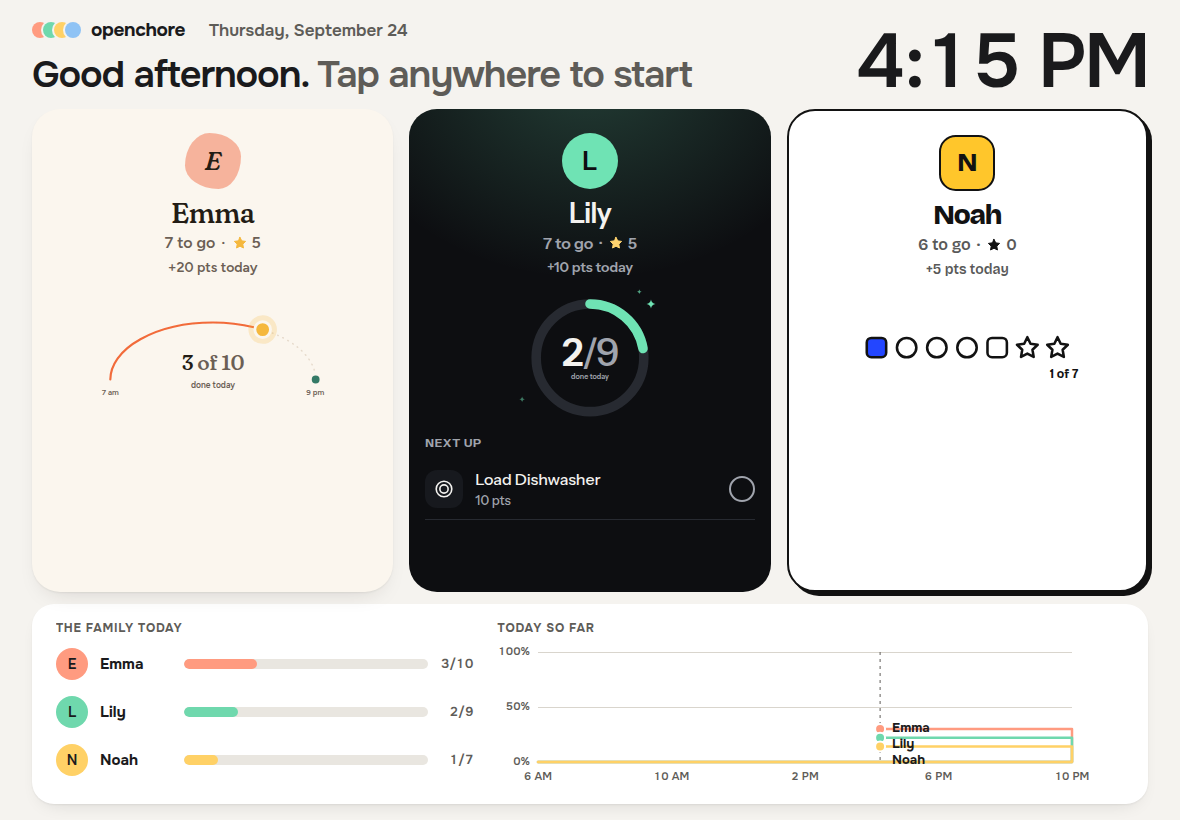
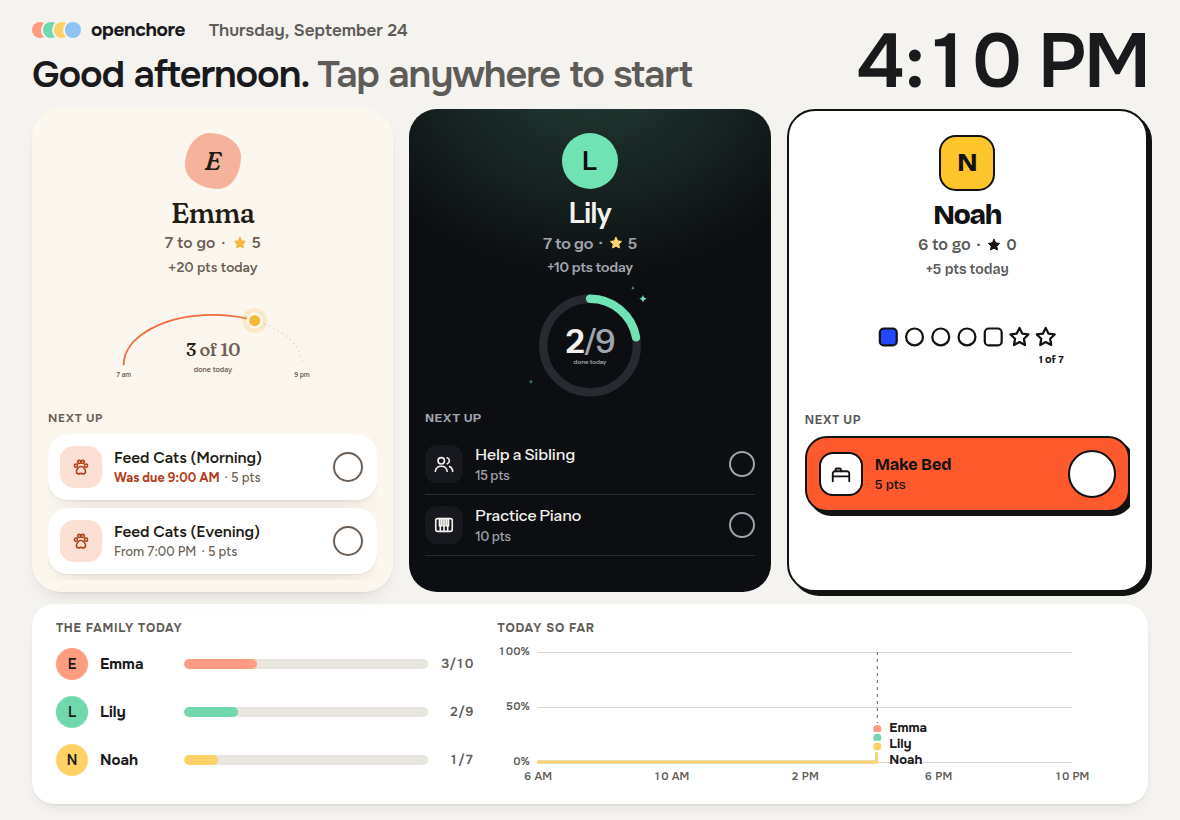
Wall display: every door lists its next whole rows
Two bugs left doors empty. The row fitter watched the list it was hiding:
once nothing fitted it hid the section, the list collapsed to zero and it
never recovered, so Emma's and Noah's doors stayed empty. It now watches
the door (sized by the grid) and re-fits once web fonts load. And the list
dropped every expired chore, so late chores that can still be done (any
expiry penalty but block) vanished.

Row selection moves to AmbientDashboard.data.ts (unit-tested): what can be
done now, then late chores ("Was due ..."), then chores that open later
("From ..."), then locked bonus. Doors give the hero less room when short
so more rows fit. Screenshots refreshed with the API in a matching time
zone so availability agrees with the page's clock.

Claude-Session: https://claude.ai/code/session_01F6vRY2ikBbEVkTGR6zBoJF

diff --git a/web/src/pages/AmbientDashboard.tsx b/web/src/pages/AmbientDashboard.tsx
@@ -8,10 +8,11 @@ import { localDateStr } from '../utils';
 import {
   Avatar, ChoreRow, DayProgress, FamilyMember, HouseScope, Icon, SkinScope,
   catFromCategory, resolveSkin, salutationFor, useMinuteClock,
-  type Cat, type ChoreState, type DayProgressItem, type Skin,
+  type DayProgressItem, type Skin,
 } from '../design';
 import { LineChart, type LineSeries, type Tick } from '../components/charts/LineChart';
 import { personColorVar } from '../components/charts/personColor';
+import { CAT_ORDER, nextRows, type NextRow } from './AmbientDashboard.data';
 import styles from './AmbientDashboard.module.css';
 
 interface PersonDay {
@@ -28,15 +29,14 @@ interface PersonDay {
 
 const REFRESH_MS = 45_000;
 const MAX_CHART_LINES = 6;
-/** How many of a person's next chores their door lists (more are clipped if they don't fit). */
-const NEXT_ROWS = 3;
+/** The most rows a door lists; fewer show when fewer whole rows fit. */
+const NEXT_ROWS = 4;
 /** DayProgress' day, matching its default "7 am" / "9 pm" labels. */
 const DAY_FROM_H = 7;
 const DAY_TO_H = 21;
 /** The family chart's day. */
 const CHART_FROM_H = 6;
 const CHART_TO_H = 22;
-const CAT_ORDER: Record<Cat, number> = { essential: 0, daily: 1, bonus: 2 };
 
 /**
  * Door hero sizing is layout, not theme (the gallery does the same): each
@@ -52,40 +52,40 @@ const HERO_FIT: Record<Skin, { w: number; s: number }> = {
 const hoursOf = (d: Date) => d.getHours() + d.getMinutes() / 60;
 const dayFraction = (d: Date) => (hoursOf(d) - DAY_FROM_H) / (DAY_TO_H - DAY_FROM_H);
 
-/** "HH:MM" today, as a Date. */
-function atToday(hhmm: string | undefined, now: Date): Date | null {
-  if (!hhmm) return null;
-  const [h, m] = hhmm.split(':').map(Number);
-  if (!Number.isFinite(h) || !Number.isFinite(m)) return null;
-  const d = new Date(now);
-  d.setHours(h, m, 0, 0);
-  return d;
-}
-
 /**
- * Hide the children of a box that don't fully fit inside it, so a door shows
- * as many whole rows as its height allows and never a clipped one.
+ * Hide the rows of a door's "Next up" list that don't fully fit, so a door
+ * shows as many whole rows as its height allows and never a clipped one.
+ * When not even one fits, the section (and its label) hides.
+ *
+ * It watches the door, whose size is set by the grid, not the list: hiding
+ * rows or the section never feeds back into the measurement. It re-fits
+ * when the door resizes and once the web fonts have loaded.
  */
 function useFitRows<T extends HTMLElement>(deps: unknown[]) {
   const ref = useRef<T>(null);
   useLayoutEffect(() => {
     const box = ref.current;
-    if (!box) return;
+    const section = box?.parentElement;
+    const door = box?.closest<HTMLElement>(`.${styles.door}`);
+    if (!box || !section || !door) return;
+    let alive = true;
     const fit = () => {
+      if (!alive) return;
       const kids = Array.from(box.children) as HTMLElement[];
+      section.hidden = false;
       kids.forEach((k) => { k.hidden = false; });
-      if (box.parentElement) box.parentElement.hidden = false;
       const bottom = box.getBoundingClientRect().bottom;
       kids.forEach((k) => { k.hidden = k.getBoundingClientRect().bottom > bottom + 1; });
-      // Nothing fits: hide the section (and its label) rather than a clipped row.
-      const section = box.parentElement;
-      if (section) section.hidden = kids.every((k) => k.hidden);
+      section.hidden = kids.length > 0 && kids.every((k) => k.hidden);
     };
     fit();
-    if (typeof ResizeObserver === 'undefined') return;
-    const ro = new ResizeObserver(fit);
-    ro.observe(box);
-    return () => ro.disconnect();
+    document.fonts?.ready.then(fit).catch(() => {});
+    let ro: ResizeObserver | undefined;
+    if (typeof ResizeObserver !== 'undefined') {
+      ro = new ResizeObserver(fit);
+      ro.observe(door);
+    }
+    return () => { alive = false; ro?.disconnect(); };
     // eslint-disable-next-line react-hooks/exhaustive-deps
   }, deps);
   return ref;
@@ -242,29 +242,13 @@ function Door({ p, now, fmtTime }: { p: PersonDay; now: Date; fmtTime: (d: Date)
       });
   }, [p.chores, p.doneAt]);
 
-  // Bonus only opens once every Must do and Every day chore is done.
-  const bonusOpen = p.chores.every((c) => c.category === 'bonus' || c.completed || !c.available);
-  const next = p.chores
-    .filter((c) => !c.completed && !c.expired)
-    .sort((a, b) =>
-      Number(b.available) - Number(a.available)
-      || CAT_ORDER[catFromCategory(a.category)] - CAT_ORDER[catFromCategory(b.category)]
-      || (a.due_by ?? '99').localeCompare(b.due_by ?? '99'))
-    .slice(0, NEXT_ROWS);
+  const next = nextRows(p.chores, now).slice(0, NEXT_ROWS);
 
-  const rowFor = (c: ScheduledChore) => {
-    const cat = catFromCategory(c.category);
-    const state: ChoreState = cat === 'bonus' && !bonusOpen ? 'locked' : 'todo';
-    let meta: string | undefined;
-    let urgent = false;
-    const opens = atToday(c.available_at, now);
-    const due = atToday(c.due_by, now);
-    if (!c.available && opens && opens > now) {
-      meta = t('wall.opensAt', { time: fmtTime(opens) });
-    } else if (due) {
-      meta = t('wall.dueBy', { time: fmtTime(due) });
-      urgent = due.getTime() - now.getTime() < 60 * 60 * 1000;
-    }
+  const rowFor = ({ chore: c, cat, state, meta: m, urgent }: NextRow) => {
+    const meta = !m ? undefined
+      : m.kind === 'opens' ? t('wall.opensAt', { time: fmtTime(m.at) })
+      : m.kind === 'late' ? t('wall.late', { time: fmtTime(m.at) })
+      : t('wall.dueBy', { time: fmtTime(m.at) });
     return (
       <ChoreRow
         key={`${c.schedule_id}-${c.chore_id}`}
@@ -282,7 +266,7 @@ function Door({ p, now, fmtTime }: { p: PersonDay; now: Date; fmtTime: (d: Date)
   };
 
   const fit = HERO_FIT[skin];
-  const rowsRef = useFitRows<HTMLDivElement>([next.map((c) => c.schedule_id).join(), bonusOpen]);
+  const rowsRef = useFitRows<HTMLDivElement>([next.map((r) => `${r.chore.schedule_id}:${r.state}:${r.meta?.kind}`).join()]);
 
   return (
     <SkinScope skin={skin} color={p.user.color} door className={styles.door} role="group" aria-labelledby={nameId}>

diff --git a/web/src/pages/AmbientDashboard.data.test.ts b/web/src/pages/AmbientDashboard.data.test.ts
@@ -1,0 +1,87 @@
+import { describe, expect, it } from 'vitest';
+import type { ScheduledChore } from '../types';
+import { atToday, bonusOpen, nextRows } from './AmbientDashboard.data';
+
+let id = 0;
+function chore(title: string, category: ScheduledChore['category'], extra: Partial<ScheduledChore> = {}): ScheduledChore {
+  id += 1;
+  return {
+    schedule_id: id, chore_id: id, title, category, completed: false, available: true, expired: false,
+    expiry_penalty: 'no_points', points_value: 5, ...extra,
+  } as ScheduledChore;
+}
+
+const at = (h: number, m = 0) => new Date(2026, 8, 24, h, m);
+const titles = (rows: ReturnType<typeof nextRows>) => rows.map((r) => r.chore.title);
+
+describe('atToday', () => {
+  it('reads HH:MM on the same day and rejects junk', () => {
+    expect(atToday('19:30', at(16))?.getHours()).toBe(19);
+    expect(atToday(undefined, at(16))).toBeNull();
+    expect(atToday('soon', at(16))).toBeNull();
+  });
+});
+
+describe('bonusOpen', () => {
+  it('opens once every available Must do and Every day chore is done', () => {
+    expect(bonusOpen([chore('A', 'required', { completed: true }), chore('B', 'bonus')])).toBe(true);
+    expect(bonusOpen([chore('A', 'core'), chore('B', 'bonus')])).toBe(false);
+    expect(bonusOpen([chore('Later', 'required', { available: false }), chore('B', 'bonus')])).toBe(true);
+  });
+});
+
+describe('nextRows', () => {
+  it('leaves out done chores and expired chores that are blocked', () => {
+    const rows = nextRows([
+      chore('Done', 'required', { completed: true }),
+      chore('Gone', 'required', { expired: true, expiry_penalty: 'block', due_by: '09:00' }),
+      chore('Open', 'core'),
+    ], at(16));
+    expect(titles(rows)).toEqual(['Open']);
+  });
+
+  it('puts what can be done now first, by category then deadline', () => {
+    const rows = nextRows([
+      chore('Every day', 'core'),
+      chore('Must do late in the day', 'required', { due_by: '20:00' }),
+      chore('Must do soon', 'required', { due_by: '16:30' }),
+    ], at(16));
+    expect(titles(rows)).toEqual(['Must do soon', 'Must do late in the day', 'Every day']);
+    expect(rows[0].meta).toMatchObject({ kind: 'due' });
+    expect(rows[0].urgent).toBe(true);
+    expect(rows[1].urgent).toBe(false);
+  });
+
+  it('lists upcoming chores with their opening time when nothing is available now', () => {
+    const rows = nextRows([
+      chore('Feed cats (evening)', 'required', { available: false, available_at: '19:00', due_by: '21:00' }),
+      chore('Brush teeth (evening)', 'required', { available: false, available_at: '20:00', due_by: '21:30' }),
+    ], at(16, 15));
+    expect(titles(rows)).toEqual(['Feed cats (evening)', 'Brush teeth (evening)']);
+    expect(rows.every((r) => r.meta?.kind === 'opens' && r.state === 'todo')).toBe(true);
+    expect((rows[0].meta as { at: Date }).at.getHours()).toBe(19);
+  });
+
+  it('keeps late chores that can still be done, after the ones on time', () => {
+    const rows = nextRows([
+      chore('Late', 'required', { expired: true, due_by: '09:00' }),
+      chore('On time', 'core'),
+      chore('Later', 'core', { available: false, available_at: '19:00' }),
+    ], at(16));
+    expect(titles(rows)).toEqual(['On time', 'Late', 'Later']);
+    expect(rows[1]).toMatchObject({ meta: { kind: 'late' }, urgent: true });
+  });
+
+  it('locks bonus chores until everything else is done, and lists them last', () => {
+    const rows = nextRows([
+      chore('Bonus', 'bonus'),
+      chore('Later', 'required', { available: false, available_at: '19:00' }),
+      chore('Now', 'required'),
+    ], at(16));
+    expect(titles(rows)).toEqual(['Now', 'Later', 'Bonus']);
+    expect(rows[2].state).toBe('locked');
+
+    const open = nextRows([chore('Done', 'required', { completed: true }), chore('Bonus', 'bonus')], at(16));
+    expect(open[0].state).toBe('todo');
+  });
+});

diff --git a/web/src/pages/AmbientDashboard.data.ts b/web/src/pages/AmbientDashboard.data.ts
@@ -1,0 +1,84 @@
+// Row selection for the wall display's doors: which of a person's chores
+// show under "Next up", in what order and with what meta line. Pure, so it
+// can be unit-tested without the page.
+import type { ScheduledChore } from '../types';
+import { catFromCategory, type Cat, type ChoreState } from '../design';
+
+export const CAT_ORDER: Record<Cat, number> = { essential: 0, daily: 1, bonus: 2 };
+
+/** What the meta line says: a deadline, an opening time or a missed deadline. */
+export type NextMeta =
+  | { kind: 'due'; at: Date }
+  | { kind: 'opens'; at: Date }
+  | { kind: 'late'; at: Date }
+  | null;
+
+export interface NextRow {
+  chore: ScheduledChore;
+  cat: Cat;
+  state: ChoreState;
+  meta: NextMeta;
+  urgent: boolean;
+}
+
+/** "HH:MM" on the same day as `now`, as a Date. */
+export function atToday(hhmm: string | undefined, now: Date): Date | null {
+  if (!hhmm) return null;
+  const [h, m] = hhmm.split(':').map(Number);
+  if (!Number.isFinite(h) || !Number.isFinite(m)) return null;
+  const d = new Date(now);
+  d.setHours(h, m, 0, 0);
+  return d;
+}
+
+/** Bonus only opens once every available Must do and Every day chore is done. */
+export function bonusOpen(chores: ScheduledChore[]): boolean {
+  return chores.every((c) => c.category === 'bonus' || c.completed || !c.available);
+}
+
+const HOUR = 60 * 60 * 1000;
+
+/**
+ * Everything a person still has to do today, most useful first:
+ * 1. what they can do now (a deadline within the hour is urgent),
+ * 2. what is late but can still be done (expired without the `block` penalty),
+ * 3. what opens later today, with its "From …" time,
+ * 4. locked bonus chores.
+ * Done chores and expired chores that can no longer be completed are left out.
+ * Within a group: Must do, Every day, Bonus, then by time.
+ */
+export function nextRows(chores: ScheduledChore[], now: Date): NextRow[] {
+  const open = bonusOpen(chores);
+  const rows: (NextRow & { group: number; sortAt: number })[] = [];
+  for (const c of chores) {
+    if (c.completed) continue;
+    if (c.expired && c.expiry_penalty === 'block') continue;
+    const cat = catFromCategory(c.category);
+    const locked = cat === 'bonus' && !open;
+    const opens = atToday(c.available_at, now);
+    const due = atToday(c.due_by, now);
+    let group: number;
+    let meta: NextMeta = null;
+    let urgent = false;
+    if (locked) {
+      group = 3;
+    } else if (!c.available && opens && opens > now) {
+      group = 2;
+      meta = { kind: 'opens', at: opens };
+    } else if (c.expired) {
+      group = 1;
+      urgent = true;
+      meta = due ? { kind: 'late', at: due } : null;
+    } else {
+      group = 0;
+      if (due) {
+        meta = { kind: 'due', at: due };
+        urgent = due.getTime() - now.getTime() < HOUR;
+      }
+    }
+    const sortAt = (meta?.at ?? due ?? opens)?.getTime() ?? Number.MAX_SAFE_INTEGER;
+    rows.push({ chore: c, cat, state: locked ? 'locked' : 'todo', meta, urgent, group, sortAt });
+  }
+  rows.sort((a, b) => a.group - b.group || CAT_ORDER[a.cat] - CAT_ORDER[b.cat] || a.sortAt - b.sortAt);
+  return rows.map(({ group: _g, sortAt: _s, ...r }) => r);
+}

diff --git a/web/src/pages/AmbientDashboard.module.css b/web/src/pages/AmbientDashboard.module.css
@@ -69,8 +69,8 @@
   display: flex;
   flex-direction: column;
   align-items: stretch;
-  gap: var(--space-3);
-  padding: var(--space-5) var(--space-4) var(--space-4);
+  gap: var(--space-2);
+  padding: var(--space-5) var(--space-4) var(--space-3);
   border-radius: 28px;
   overflow: hidden;
   border: var(--outline-w) solid var(--line);
@@ -127,8 +127,8 @@
 .memberGrid :global(.oc-member__n) { width: 72px; }
 .chart { min-width: 0; display: flex; flex-direction: column; gap: var(--space-1); }
 
-/* Wide doors (three or fewer people): a bigger hero. */
-@container (min-width: 300px) {
+/* Wide, tall doors: a bigger hero. Otherwise the space goes to what's left. */
+@container (min-width: 300px) and (min-height: 560px) {
   .hero, .heroFit { --hero-k: 1.15; }
 }
 /* Short doors (big families, two or three rows of doors): keep the person
